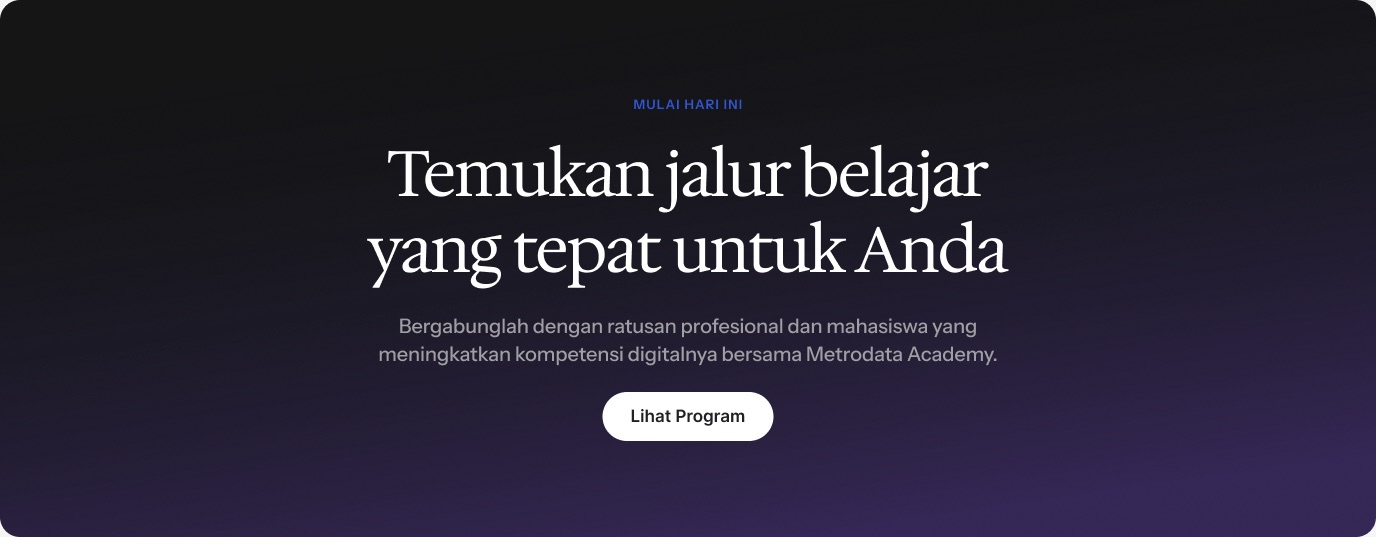
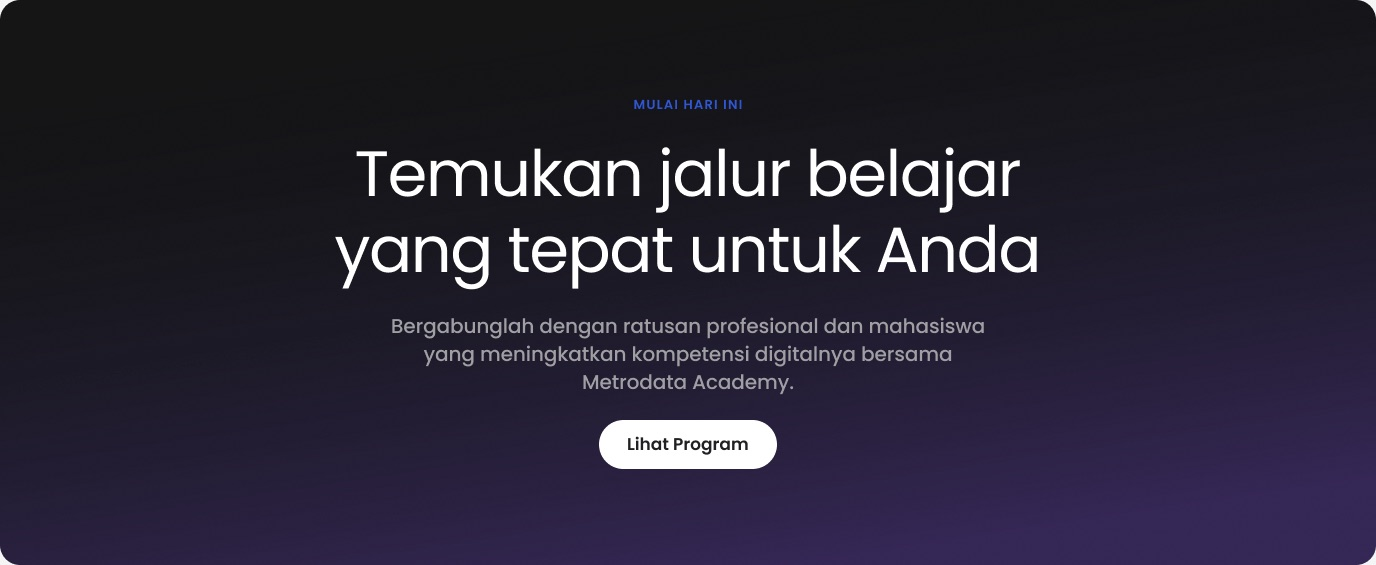
Metrodata: the Academy UI is Poppins — re-exported screens and updated its type specimen

diff --git a/fulltimeworks/metrodataacademy/index.html b/fulltimeworks/metrodataacademy/index.html
@@ -7,7 +7,7 @@
 <meta name="description" content="Case study: website, design system and documentation for Metrodata Academy, the IT training and certification arm of Metrodata Electronics.">
 <link rel="preconnect" href="https://fonts.googleapis.com">
 <link rel="preconnect" href="https://fonts.gstatic.com" crossorigin>
-<link rel="stylesheet" href="https://fonts.googleapis.com/css2?family=Radio+Canada+Big:ital,wght@0,400..700;1,400..700&family=Hedvig+Letters+Serif&family=Instrument+Sans:wght@400;600&display=swap">
+<link rel="stylesheet" href="https://fonts.googleapis.com/css2?family=Radio+Canada+Big:ital,wght@0,400..700;1,400..700&family=Poppins:wght@400;500;600&display=swap">
 <link rel="preload" as="image" href="assets/homepage-top.jpg">
 <style>
 /* ============================================================
@@ -16,8 +16,8 @@
    phone layout from "Metrodata Academy page — Mobile 390".
 
    Same series as fulltimeworks/alomos/: same grid, nav and footer, but
-   dressed in the Academy's own brand — Hedvig Letters Serif headings,
-   Instrument Sans text, Metrodata blue. The UI shown is Steven's rebuild
+   dressed in the Academy's own brand — Metrodata blue, and Poppins wherever
+   the Academy's own UI is quoted (Steven's call, Sept 24 2026). The UI shown is Steven's rebuild
    of the homepage (Figma 3950:12156), exported as images in ./assets.
    Every path is relative, as on the Alomos page.
    ============================================================ */
@@ -165,9 +165,9 @@ a{color:inherit;text-decoration:none;}
 .tok i{flex:none;width:28px;height:28px;border-radius:7px;}
 .tok b{flex:1;font-weight:500;font-size:14px;}
 .tok span{font-size:13px;color:var(--muted);}
-/* The specimens document the Academy's own system, so they keep its
-   typefaces even though the rest of the site is Radio Canada Big. */
-.ty b{font-family:"Instrument Sans",var(--sans);}
+/* The specimens document the Academy's own system, which is set in Poppins,
+   even though the rest of this site is Radio Canada Big. */
+.ty b{font-family:"Poppins",var(--sans);}
 .ty span{display:block;margin-top:2px;font-size:12px;color:var(--muted);}
 .spec small{display:block;margin-bottom:8px;font-size:12px;color:var(--muted);}
 .spec div{display:flex;flex-wrap:wrap;gap:8px;align-items:center;}
@@ -472,10 +472,10 @@ a{color:inherit;text-decoration:none;}
       <div>
         <h4>Typography</h4>
         <div class="ds-card">
-          <div class="ty"><b style="font-family:'Hedvig Letters Serif',Georgia,serif;font-weight:400;font-size:36px;line-height:42px">Display</b><span>Hedvig Letters Serif · 64 / 72</span></div>
-          <div class="ty"><b style="font-weight:600;font-size:22px">Heading</b><span>Instrument Sans SemiBold · 22 – 44</span></div>
-          <div class="ty"><b style="font-weight:400;font-size:16px">Body text</b><span>Instrument Sans · 16 / 26</span></div>
-          <div class="ty"><b style="font-family:var(--inter);font-weight:600;font-size:13px;letter-spacing:.04em">LABEL</b><span>Inter SemiBold · 11 – 15</span></div>
+          <div class="ty"><b style="font-family:'Poppins',var(--sans);font-weight:600;font-size:36px;line-height:42px">Display</b><span>Poppins SemiBold · 64 / 72</span></div>
+          <div class="ty"><b style="font-weight:600;font-size:22px">Heading</b><span>Poppins SemiBold · 22 – 44</span></div>
+          <div class="ty"><b style="font-weight:400;font-size:16px">Body text</b><span>Poppins · 16 / 26</span></div>
+          <div class="ty"><b style="font-family:'Poppins',var(--sans);font-weight:500;font-size:13px;letter-spacing:.04em">LABEL</b><span>Poppins Medium · 11 – 15</span></div>
         </div>
       </div>
       <div>
@@ -501,7 +501,7 @@ a{color:inherit;text-decoration:none;}
           <div><h3>Button</h3><p class="lede">Buttons start an action. Each section gets one primary button for the thing we most want the visitor to do; everything else is secondary or a text link.</p></div>
           <div class="doc-two">
             <div class="box variants"><h5>Variants</h5><div><span class="b-primary">Lihat Program</span><span class="b-signal">Daftar</span><span class="b-link">Detail →</span></div></div>
-            <div class="box specs"><h5>Specs</h5><p>Height <b>48 px</b></p><p>Padding <b>14 × 28 px</b></p><p>Radius <b>Full pill</b></p><p>Label <b>Inter SemiBold 17</b></p></div>
+            <div class="box specs"><h5>Specs</h5><p>Height <b>48 px</b></p><p>Padding <b>14 × 28 px</b></p><p>Radius <b>Full pill</b></p><p>Label <b>Poppins SemiBold 17</b></p></div>
           </div>
           <div class="dd-row">
             <div class="dd dd--do"><h5>Do</h5><div><span class="b-primary">Lihat Program</span></div><p>One primary button per section — it is the action we want.</p></div>

diff --git a/CLAUDE.md b/CLAUDE.md
@@ -229,9 +229,12 @@ The home page's **marquee band is the one deliberate exception on Steven's own
 pages**: black (#000) with Days One, his call on Sept 23, 2026 — keep it.
 
 The other exception, in both Figma and the HTML: **type specimens inside a case
-study keep the client's own typeface** — the ALOMOS ramp stays Poppins, the
-Metrodata ramp stays Hedvig Letters Serif / Instrument Sans — because they
-document that product's system. The embedded product UI (screenshots and the
+study keep the client's own typeface** — the ALOMOS ramp stays Poppins, and the
+**Metrodata Academy UI is Poppins too** (Steven's call, Sept 24, 2026: every
+text *inside* his rebuilt Academy UI is Poppins, while the case-study page
+around it stays Radio Canada Big). The Figma frame `4004:5828` was converted,
+and the six exported UI images in `metrodataacademy/assets/` were re-rendered
+from it — re-export them if that frame changes again. The embedded product UI (screenshots and the
 Figma clones of the Metrodata homepage) is left alone for the same reason.
 
 ## Assets
